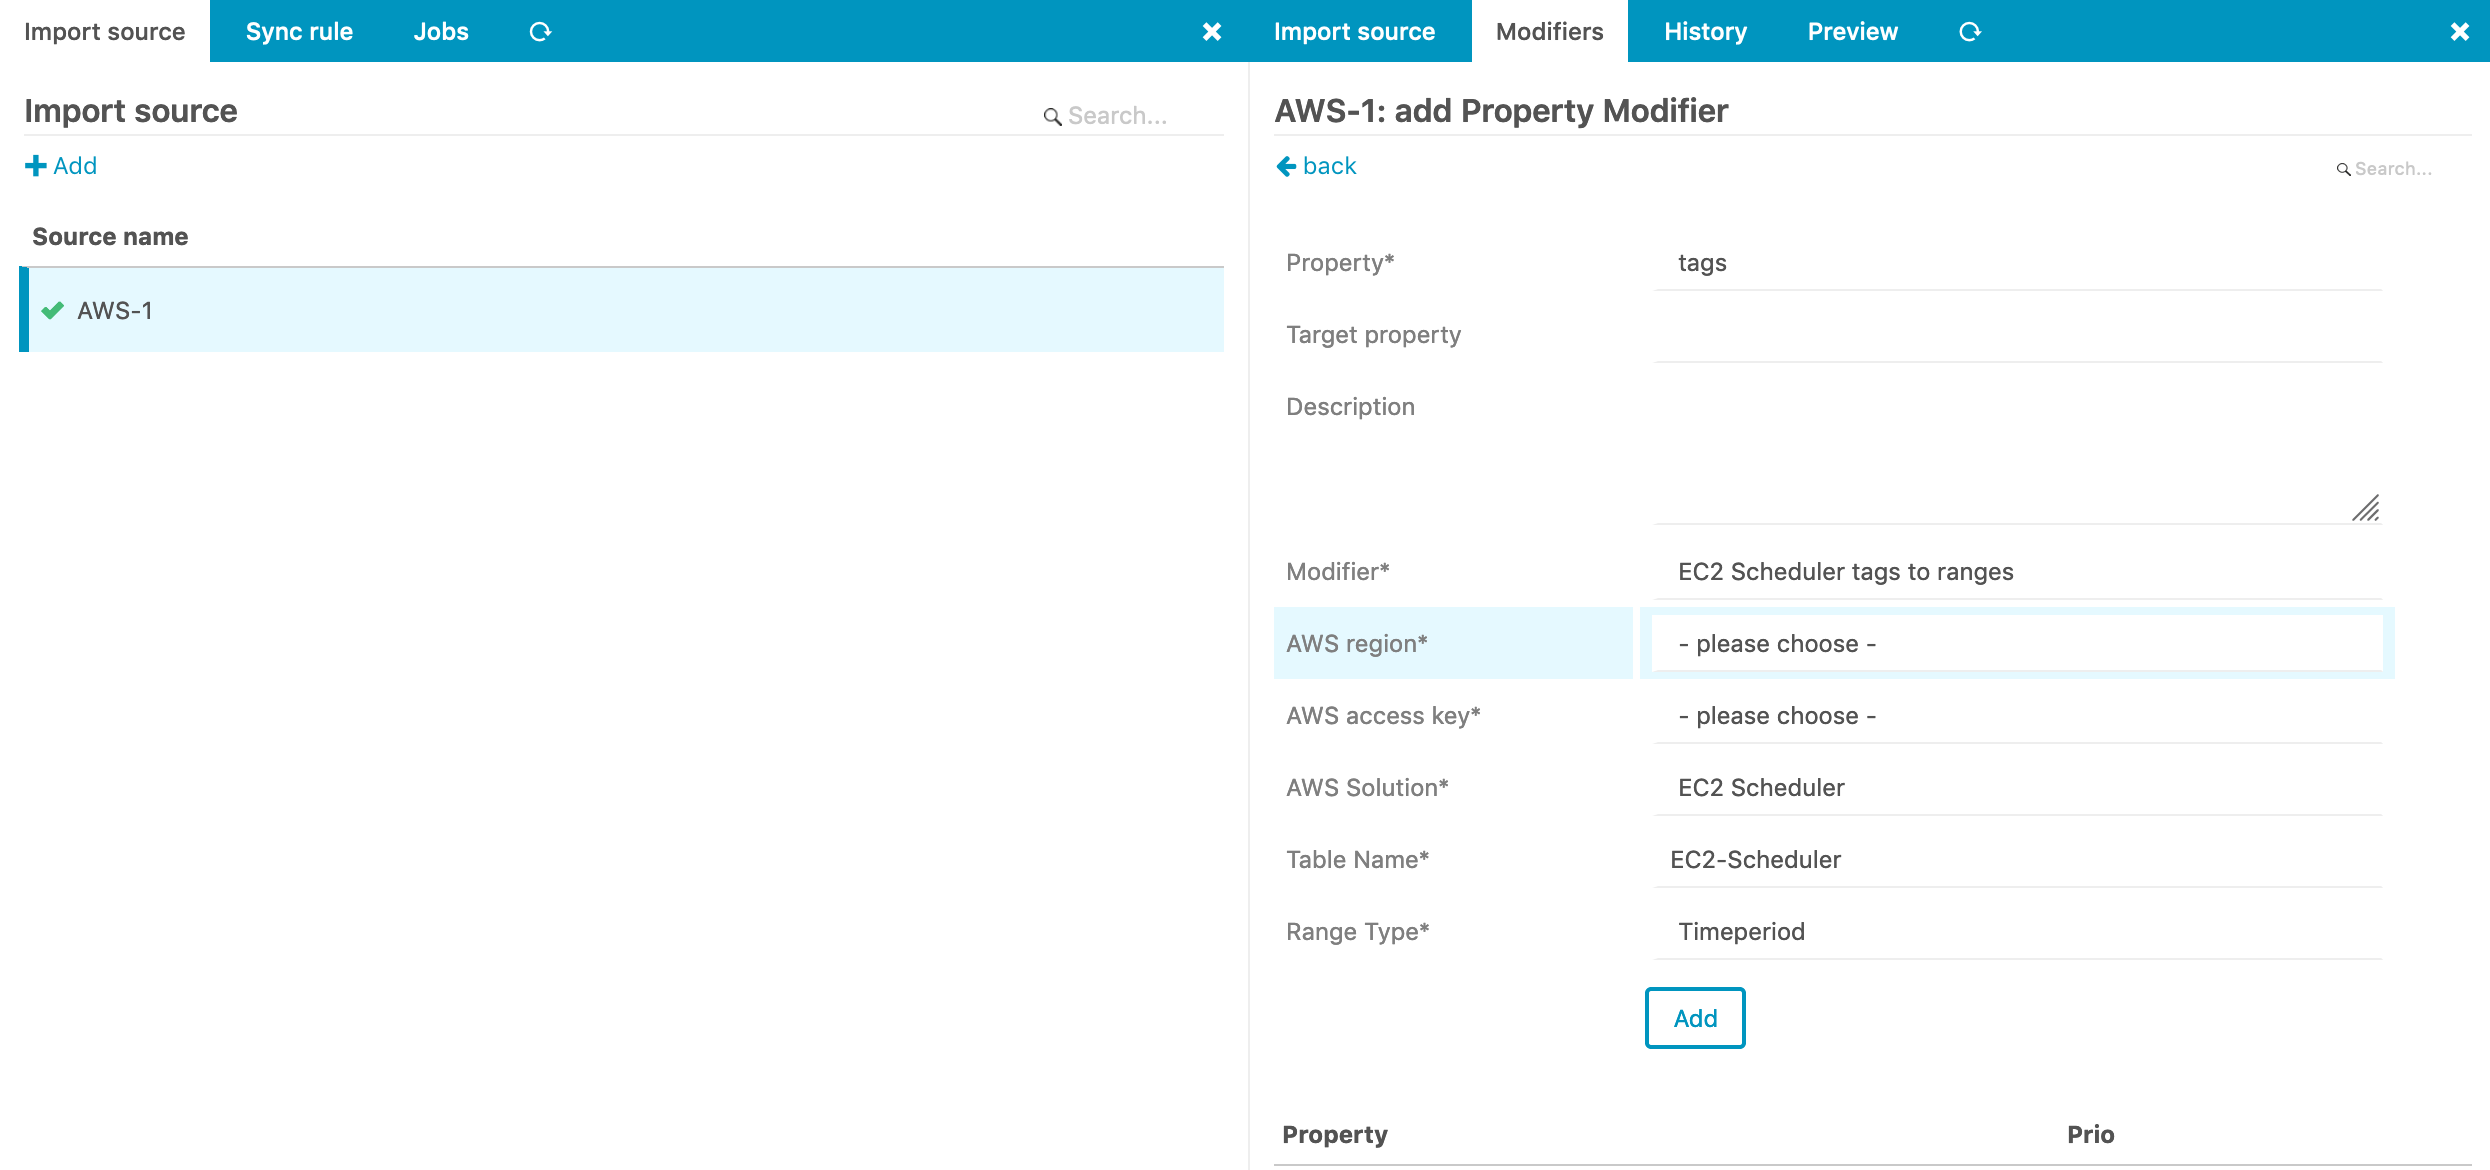
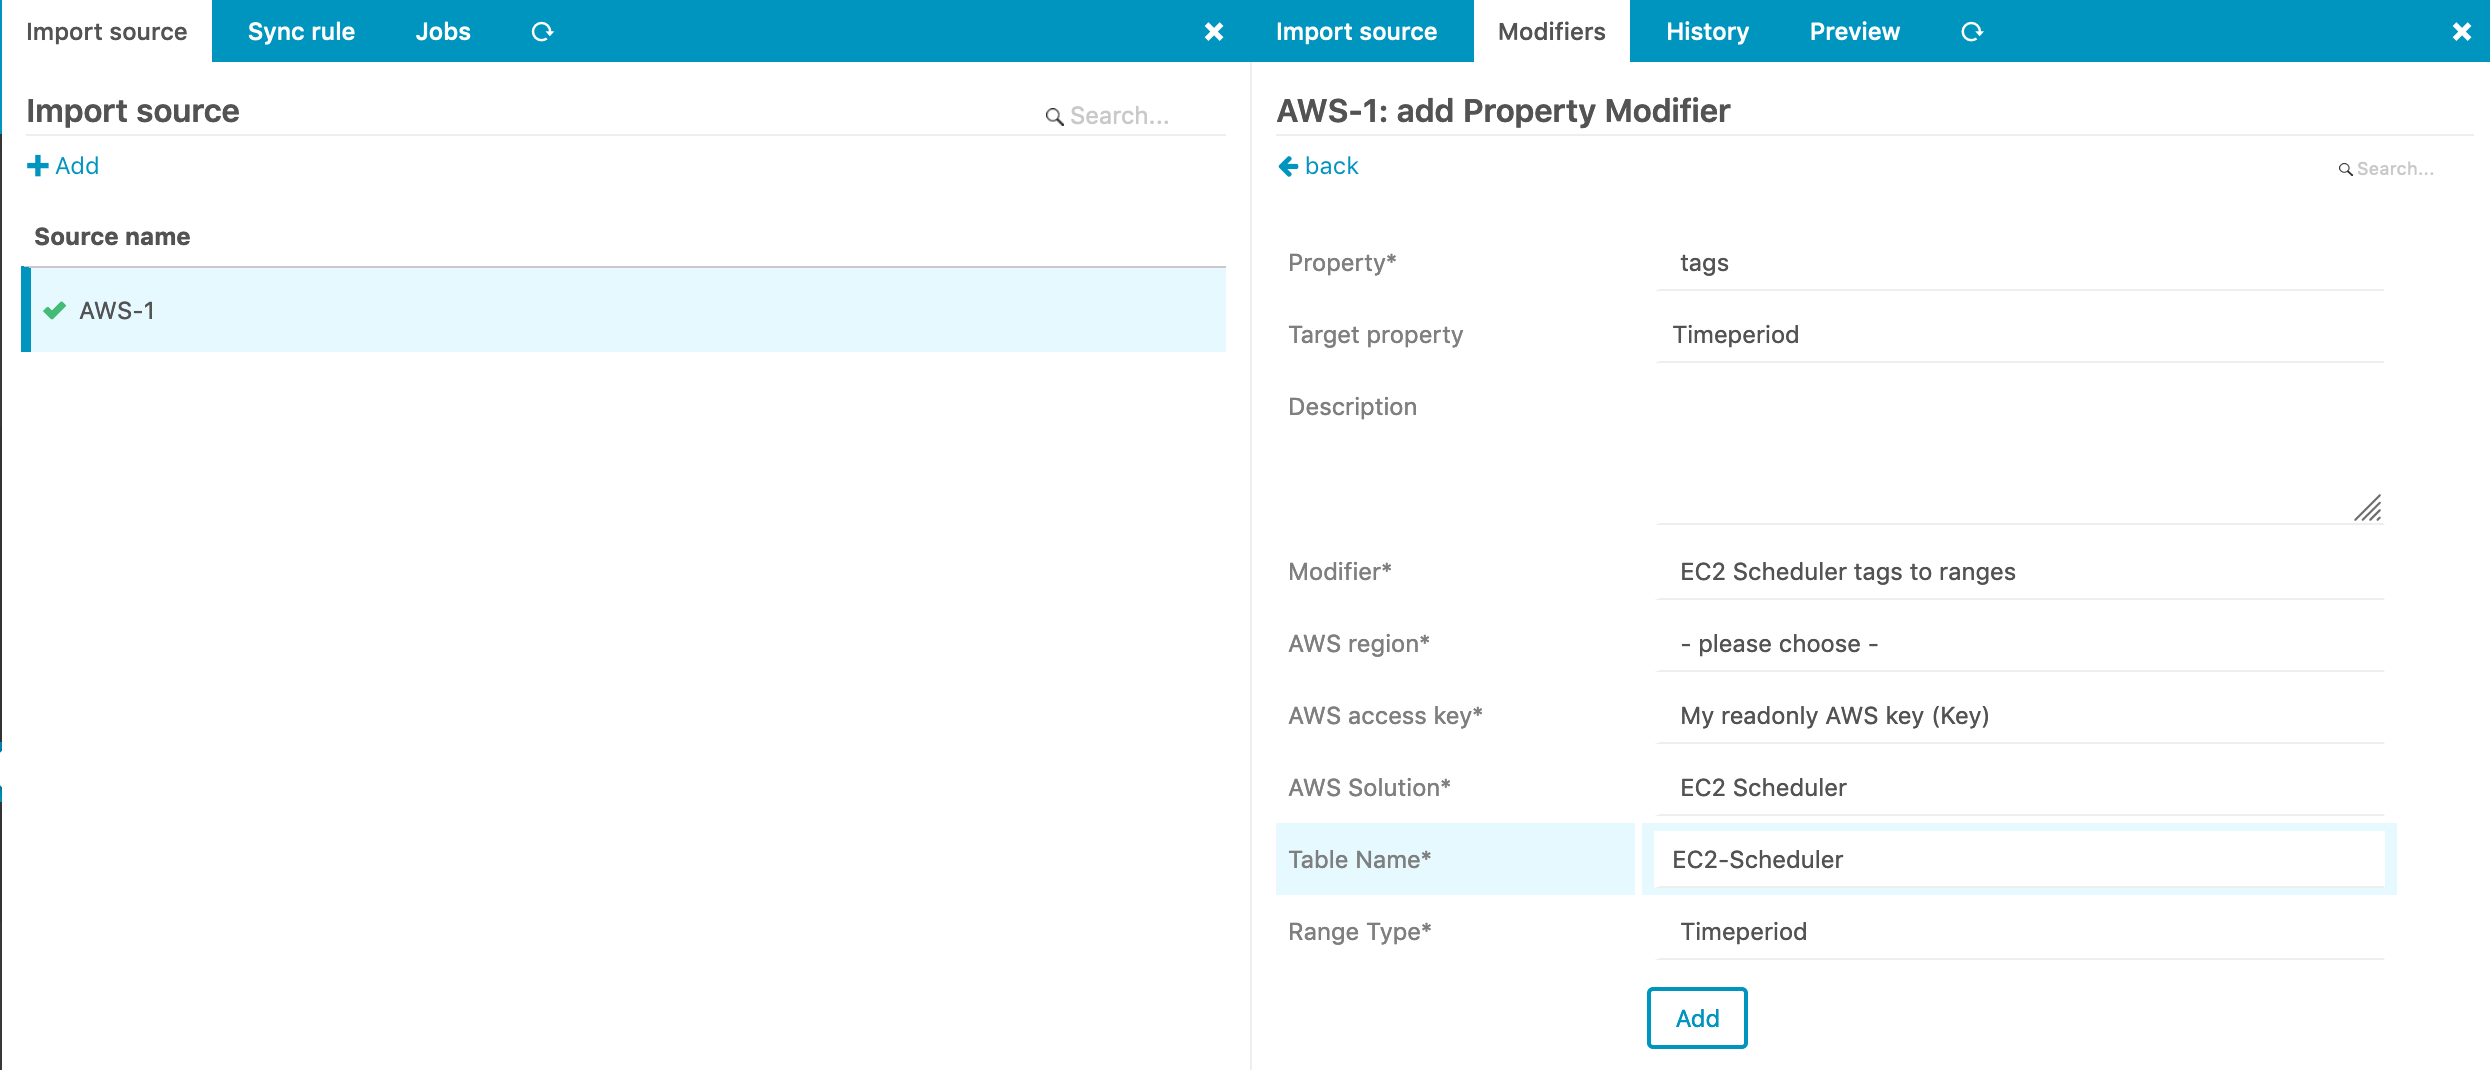
Add sync rule section in documentation for TimePeriod import

diff --git a/doc/02-Usage.md b/doc/02-Usage.md
@@ -74,12 +74,21 @@ will show you what related actions took place.
 You can import and create 
 [TimePeriod objects](https://icinga.com/docs/icinga2/latest/doc/09-object-types/#timeperiod) 
 via the [EC2 Scheduler](https://github.com/amazon-archives/ec2-scheduler). 
-Under your import sources list, add a property modifier:
+Under your import source, add a property modifier:
 
 ![AWS timeperiod import](img/12_aws_timeperiod_modifier.png)
 
-With the property `tags` you can use the modifier option `EC2 Scheduler tags to ranges`
-which will generate a TimePeriod object for further use:
+With the property `tags` you can use the modifier option `EC2 Scheduler tags to ranges`.
+With this, you can define a sync rule using a Time Period object type:
+
+![AWS timeperiod syncrule](img/14_aws_timeperiod_syncrule.png)
+
+This sync rule will need its own sync properties, which can be configured as follows:
+
+![AWS timeperiod_sync_properties](img/15_aws_timeperiod_syncproperties.png)
+
+Now just check for changes and trigger the sync rule and a TimePeriod object will be 
+automagically created.
 
 ![AWS timeperiod object](img/13_aws_timeperiod_object.png)
 
